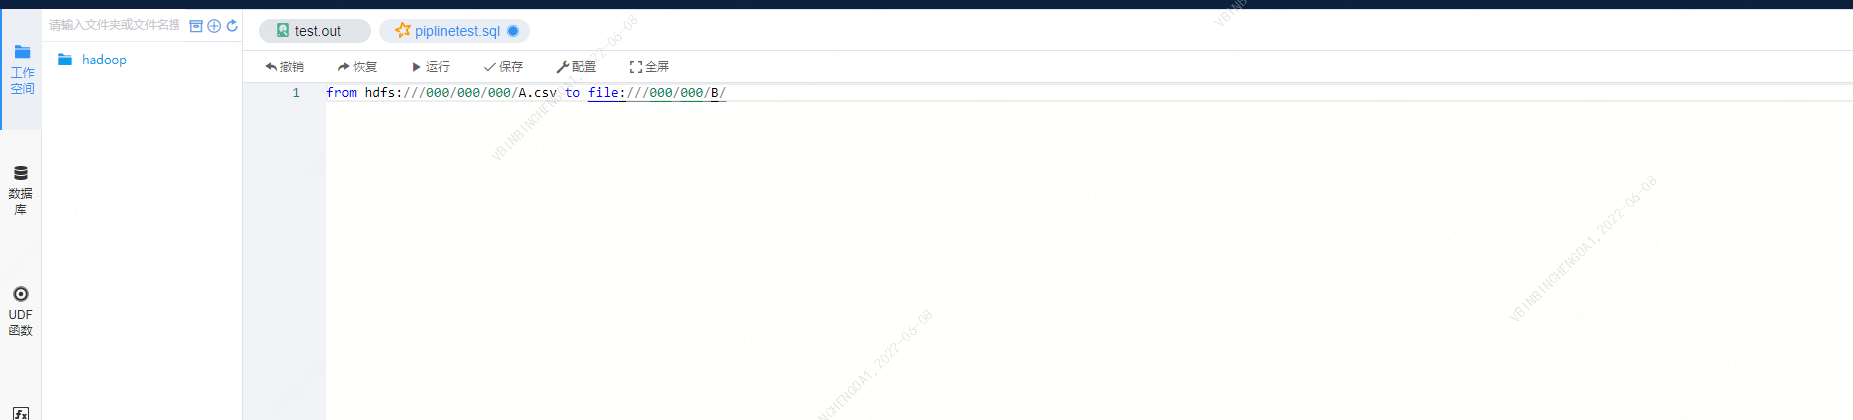
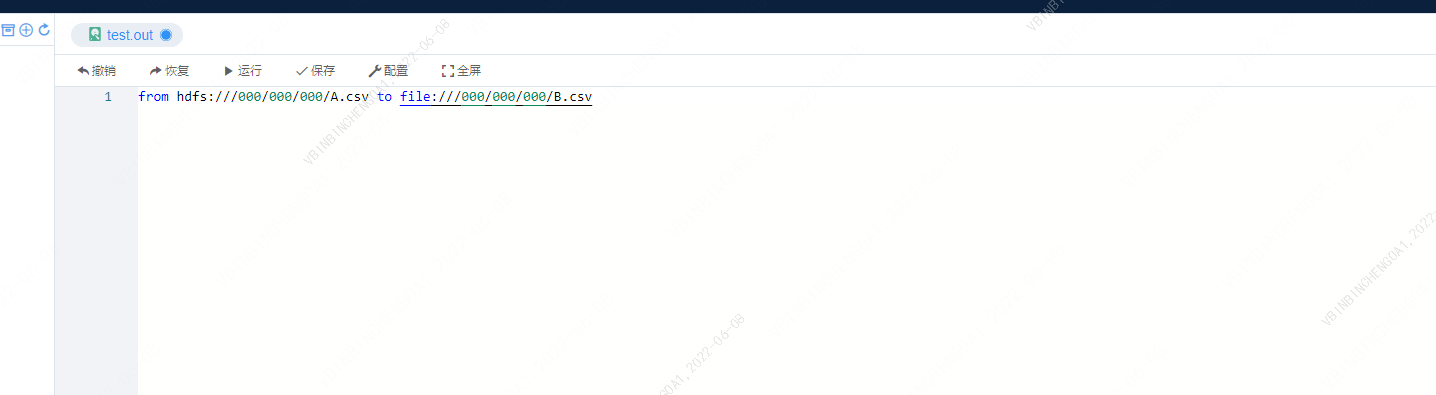
Chinese and English Guidelines for pipeline engine to correct spelling errors in pipeline

diff --git a/docs/engine_usage/pipeline.md b/docs/engine_usage/pipeline.md
@@ -1,28 +1,28 @@
 ---
-title: pipline engine
+title: pipeline engine
 sidebar_position: 10
 ---
 
-This article mainly introduces the configuration, deployment and use of pipline (>=1.1.0 version support) engine.
+This article mainly introduces the configuration, deployment and use of pipeline (>=1.1.0 version support) engine.
 
 ## 1 Environmental requirements
 
-If you want to deploy the ‘pipline’ engine, you need to prepare a set of available pipline environments.
+If you want to deploy the ‘pipeline’ engine, you need to prepare a set of available pipeline environments.
 
 ## 2 Configuration and deployment
 
 ### 2.1 Version selection and compilation
-Note: before compiling the `pipline`engine, you need to compile the linkis project in full
-Currently, the `pipline` engine needs to be installed and deployed by itself
+Note: before compiling the `pipeline`engine, you need to compile the linkis project in full
+Currently, the `pipeline` engine needs to be installed and deployed by itself
 
 This engine plug-in is not included in the published installation and deployment package by default,
 You can follow this guide to deploy the installation https://linkis.apache.org/zh-CN/blog/2022/04/15/how-to-download-engineconn-plugin
 Or manually compile the deployment according to the following process
 
-Compile separately`pipline` 
+Compile separately`pipeline` 
 
 ```
-${linkis_code_dir}/linkis-enginepconn-pugins/engineconn-plugins/pipline/
+${linkis_code_dir}/linkis-enginepconn-pugins/engineconn-plugins/pipeline/
 mvn clean install
 ```
 
@@ -31,7 +31,7 @@ mvn clean install
 将 2.1 The engine package compiled in step, located in
 
 ```bash
-${linkis_code_dir}/linkis-engineconn-plugins/engineconn-plugins/pipline/target/out/pipline
+${linkis_code_dir}/linkis-engineconn-plugins/engineconn-plugins/pipeline/target/out/pipeline
 ```
 Upload to the engine directory of the server
 
@@ -70,12 +70,12 @@ Linkis1.XIt is carried out through labels, so it is necessary to insert data int
 
 ## 3 Use of engine
 
-because`pipline`The engine is mainly used to import and export files. Now let's assume that importing files from a to B is the most introduced case
+because`pipeline`The engine is mainly used to import and export files. Now let's assume that importing files from a to B is the most introduced case
 
 ### 3.1 New script
 Right click the workspace module and select Create a new workspace of type`storage`Script for
 
-![](/Images-zh/EngineConnNew/new_pipline_script.png)
+![](/Images-zh/EngineConnNew/new_pipeline_script.png)
 
 ### 3.2 Script
 A file importing script to B folder
@@ -83,17 +83,20 @@ A file importing script to B folder
 from hdfs:///000/000/000/A.csv to file:///000/000/B/
 ```
 - `from` grammar，`to`：grammar
-- `hdfs:///000/000/000/A.csv`： Output file path
-- `file:///000/000/B/`： Enter file path
+- `hdfs:///000/000/000/A.csv`：Output file path and file
+- `file:///000/000/B/`： Input file path and file
 
 B file import script to a folder
 ```bash
-from hdfs:///000/000/000/B.csv to file:///000/000/A/
+from hdfs:///000/000/000/B.csv to file:///000/000/000/A.CSV
 ```
-- `hdfs:///000/000/000/B.csv`： Output file path
-- `file:///000/000/A/`： Enter file path
+- `hdfs:///000/000/000/B.csv`： Output file path and file
+- `file:///000/000/A/`： Input file path and file
 
 ![](/Images-zh/EngineConnNew/to_write.png)
+
+Note: no semicolon is allowed at the end of the syntax; Otherwise, the syntax is incorrect.
+
 ### 3.2 result
 speed of progress
 
